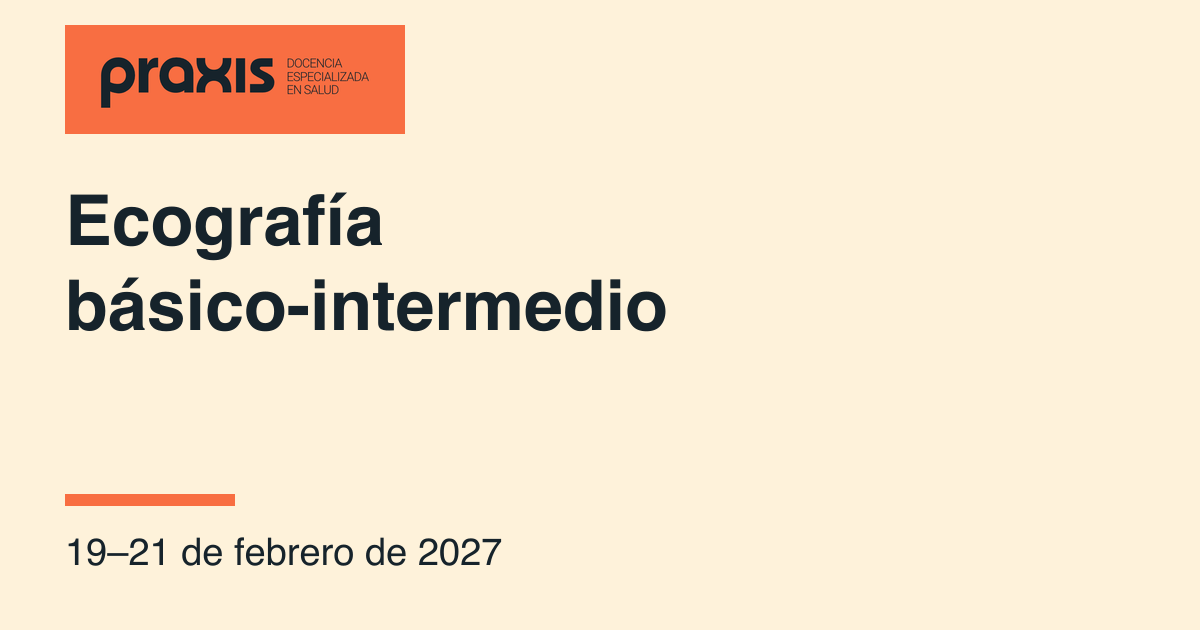
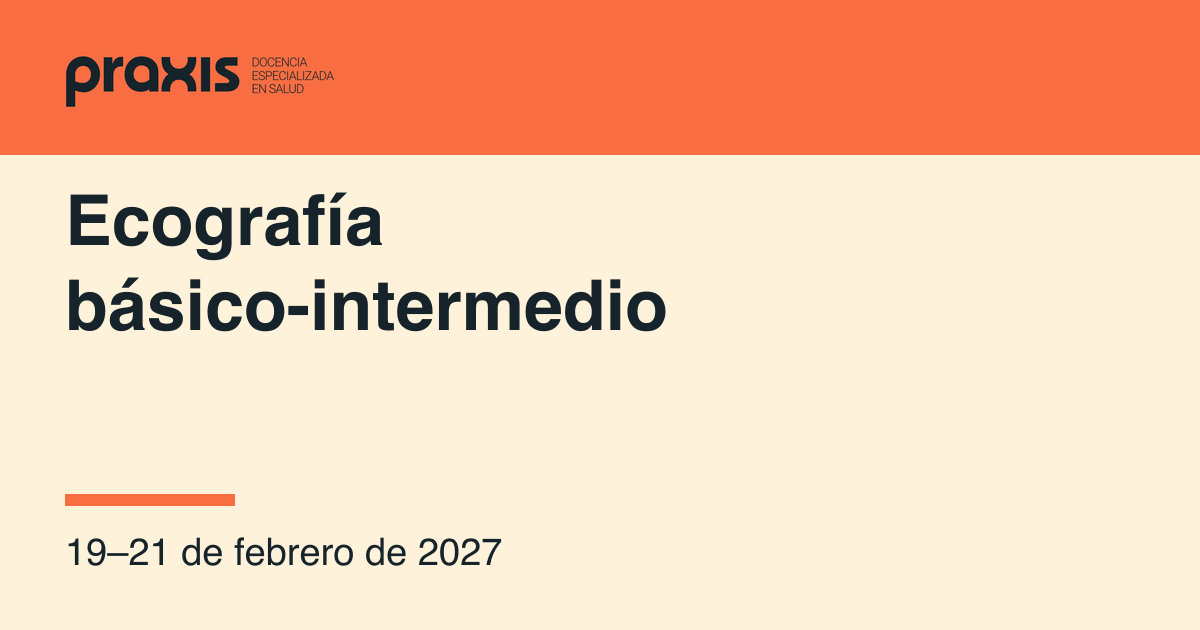
Integrar la firma corporativa en la composición del portal

Changed region(s): [[0.0, 0.0, 1.0, 0.2714]]

diff --git a/src/layouts/style.css b/src/layouts/style.css
@@ -1,5 +1,5 @@
 :root {
-  --ink:#16232b; --paper:#fef2da; --accent:#f86e41; --line:#c6cbc9;
+  --ink:#16232b; --paper:#fef2da; --accent:#f86e42; --line:#c6cbc9;
   --margin:max(clamp(18px,5vw,72px),calc((100% - 1220px)/2));
   font-family:'Manrope Variable',sans-serif; color:var(--ink); background:white;
 }
@@ -11,9 +11,10 @@ a:focus-visible,summary:focus-visible {outline:3px solid #1678bd;outline-offset:
 .skip:focus {left:1rem;background:white;padding:1rem;z-index:10}
 header,footer,main>section {padding-inline:var(--margin)}
 header,footer,.wide-nav,.section-head,.feature-name,.button {display:flex;align-items:center;justify-content:space-between}
-header {position:relative;z-index:2;padding-block:17px;background:var(--paper);border-bottom:1px solid #16232b30}
+header {position:relative;z-index:2;padding-block:8px;background:var(--accent)}
 .corporate-logo {display:block;width:220px;height:64px;object-fit:cover;object-position:50% 53%;max-width:100%}
-footer .corporate-logo {width:190px;height:58px}
+.brand,footer a:first-child {margin-inline-start:-23px}
+footer .corporate-logo {width:220px;height:64px}
 .wide-nav {gap:clamp(18px,3vw,48px)}
 nav a,summary,.back,.download,.guide a {display:inline-flex;align-items:center;min-height:44px;font-weight:700}
 nav a {text-decoration:none}
@@ -21,10 +22,10 @@ nav a:hover,.agenda a:hover h3,.feature:hover .feature-name {text-decoration:und
 .mobile-menu {display:none}
 summary {cursor:pointer}
 main>section {padding-block:clamp(38px,6vw,88px)}
-.hero {background:var(--paper);display:grid;grid-template-columns:minmax(0,1.3fr) minmax(0,1fr);gap:clamp(24px,5vw,88px);align-items:center}
+.hero {background:var(--paper);display:grid;grid-template-columns:minmax(0,1.3fr) minmax(0,1fr);gap:clamp(24px,5vw,88px);align-items:center;padding-block:clamp(34px,4.4vw,68px)}
 h1,h2,h3,p {margin:0}
 h1,h2,h3 {text-wrap:balance}
-h1 {font-size:clamp(2.85rem,5.2vw,5rem);letter-spacing:-.065em;line-height:1.025}
+h1 {font-size:clamp(2.85rem,5.2vw,5rem);letter-spacing:-.054em;line-height:1.055}
 h2 {font-size:clamp(2rem,3.8vw,3.5rem);letter-spacing:-.055em;line-height:1.1}
 h3 {font-size:clamp(1.22rem,2vw,1.65rem);line-height:1.2;letter-spacing:-.035em}
 p,li {line-height:1.6}
@@ -44,26 +45,30 @@ p,li {line-height:1.6}
 .feature-name {border-top:1px solid #ffffff55;margin-top:1.3rem;padding-top:1rem;gap:1rem;font-size:clamp(1.18rem,1.6vw,1.6rem);font-weight:700}
 .section-head {align-items:end;gap:1rem;margin-bottom:1.75rem}
 .section-head p,.entry span,.price small,.date small {font-size:.9rem}
-.agenda a {display:grid;grid-template-columns:minmax(90px,.55fr) minmax(0,3fr) auto auto;align-items:center;gap:clamp(12px,3vw,48px);padding:1.15rem .4rem;border-top:1px solid var(--line);text-decoration:none}
+.agenda a {display:grid;grid-template-columns:minmax(90px,.55fr) minmax(0,3fr) auto auto;align-items:center;gap:clamp(12px,3vw,48px);padding:1.15rem 0;border-top:1px solid var(--line);text-decoration:none}
 .agenda a:last-child {border-bottom:1px solid var(--line)}
 .agenda a:hover {background:#fff9ee}
 .date {font-size:clamp(1.4rem,2.4vw,2rem);font-weight:750;letter-spacing:-.04em;line-height:1.2}
 .date small,.price small {display:block;font-weight:500;letter-spacing:0}
 .entry span {display:block;margin-top:.4rem}
-.price {font-weight:700}
+.price {font-weight:700;font-variant-numeric:tabular-nums}
+.date,.stamp {font-variant-numeric:tabular-nums}
 .arrow {font-size:1.4rem}
 #ecografia {background:var(--ink);color:var(--paper)}
 .guide {display:grid;grid-template-columns:repeat(3,minmax(0,1fr));gap:clamp(18px,3vw,46px);margin-top:2rem}
 .guide article {display:flex;flex-direction:column;border-top:1px solid #adb3af;padding-top:1.1rem}
 .guide p {margin-block:.8rem}
 .guide a {margin-top:auto;color:var(--accent);gap:.65em}
-#equipo {display:grid;grid-template-columns:1fr 1fr;gap:7%}
+#equipo {display:grid;grid-template-columns:minmax(0,1.3fr) minmax(0,1fr);gap:clamp(24px,5vw,88px)}
 #equipo p {margin-top:1rem;max-width:49ch}
 .faculty strong {display:block}
 .faculty p+p {border-top:1px solid var(--line);padding-top:.7rem}
-footer {background:var(--ink);color:white;padding-block:2rem;gap:1rem;flex-wrap:wrap}
-footer a {padding-block:.35rem}
-.course {padding-top:1.5rem}
+footer {background:var(--accent);color:var(--ink);padding-block:1.25rem;gap:1rem;flex-wrap:wrap}
+footer a {display:inline-flex;align-items:center;min-height:44px}
+.course {padding-top:1.25rem}
+.course .lead {max-width:60ch}
+.program {max-width:70ch}
+.program h2:not(:first-child) {border-top:1px solid var(--line);padding-top:.85em}
 .back {margin-bottom:1.2rem}
 .course h1 {font-size:clamp(2rem,4.6vw,4.7rem);max-width:22ch;overflow-wrap:anywhere;hyphens:auto}
 .coursegrid {display:grid;grid-template-columns:minmax(250px,1fr) minmax(0,1.8fr);gap:clamp(24px,5vw,72px);align-items:start;margin-top:2rem}
@@ -78,8 +83,9 @@ footer a {padding-block:.35rem}
 .program :is(li,p) {margin-bottom:.65em}
 .program :is(ul,ol) {padding-inline-start:1.4em}
 @media(max-width:850px) {
-  header {padding-block:9px}
-  .brand .corporate-logo {width:176px;height:52px}
+  header {padding-block:5px}
+  .brand .corporate-logo,footer .corporate-logo {width:176px;height:52px}
+  .brand,footer a:first-child {margin-inline-start:-18px}
   .wide-nav {display:none}
   .mobile-menu {display:block}
   .mobile-menu summary {gap:.6em;list-style:none;padding-inline:.4rem}
